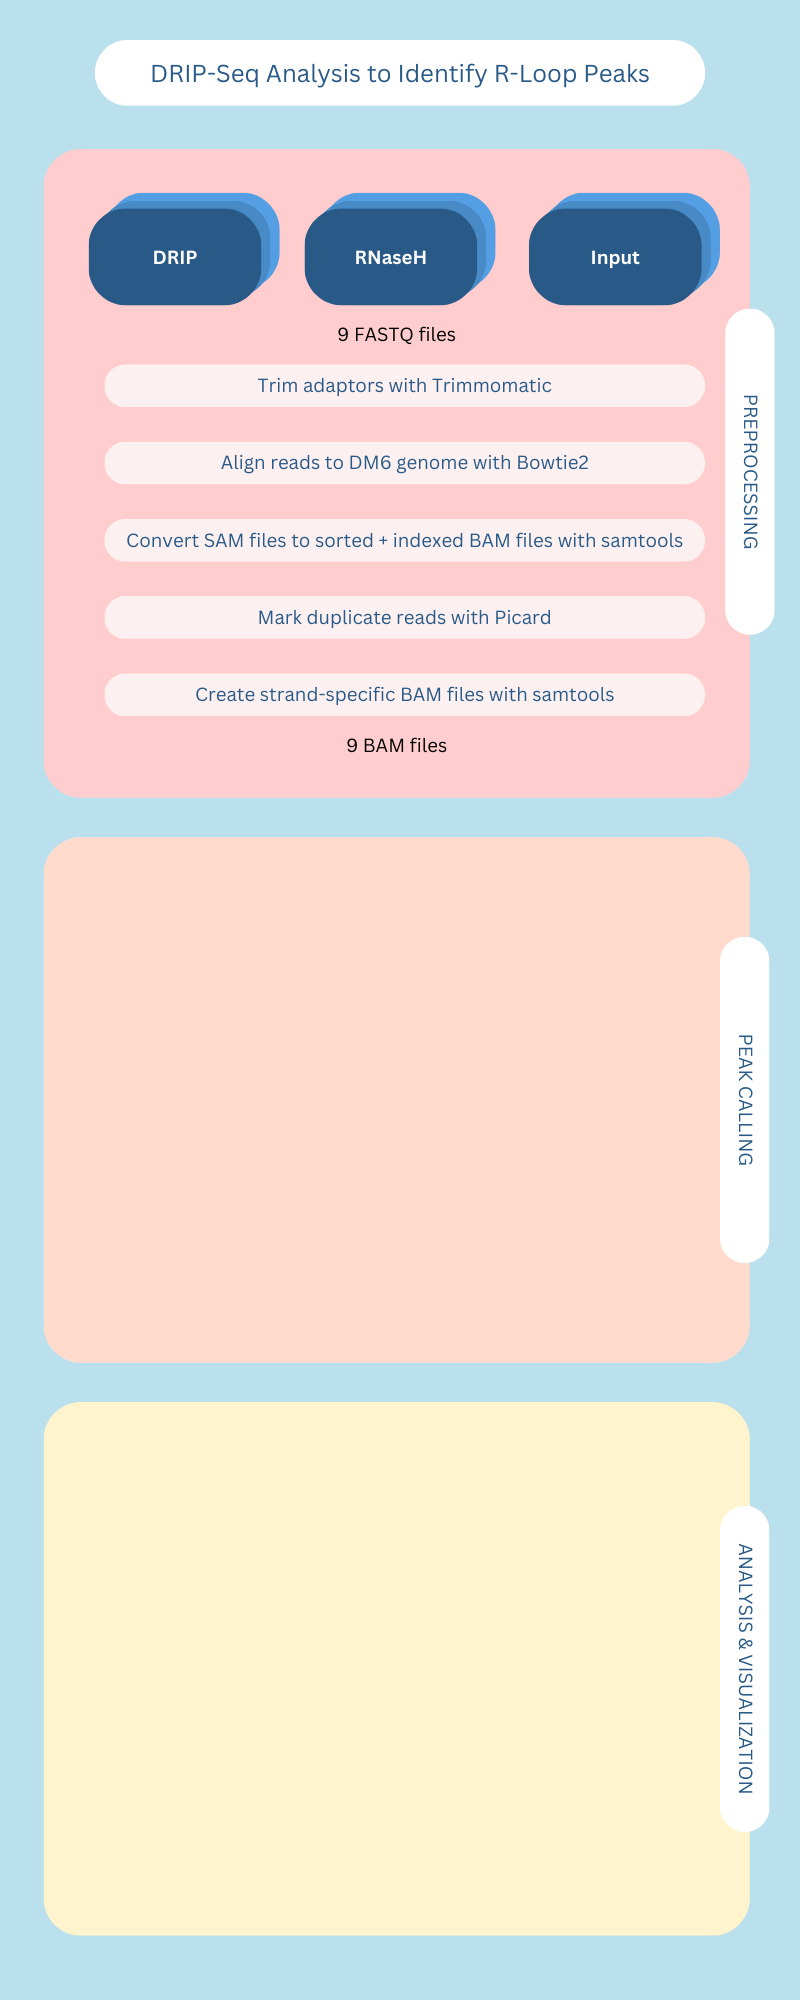
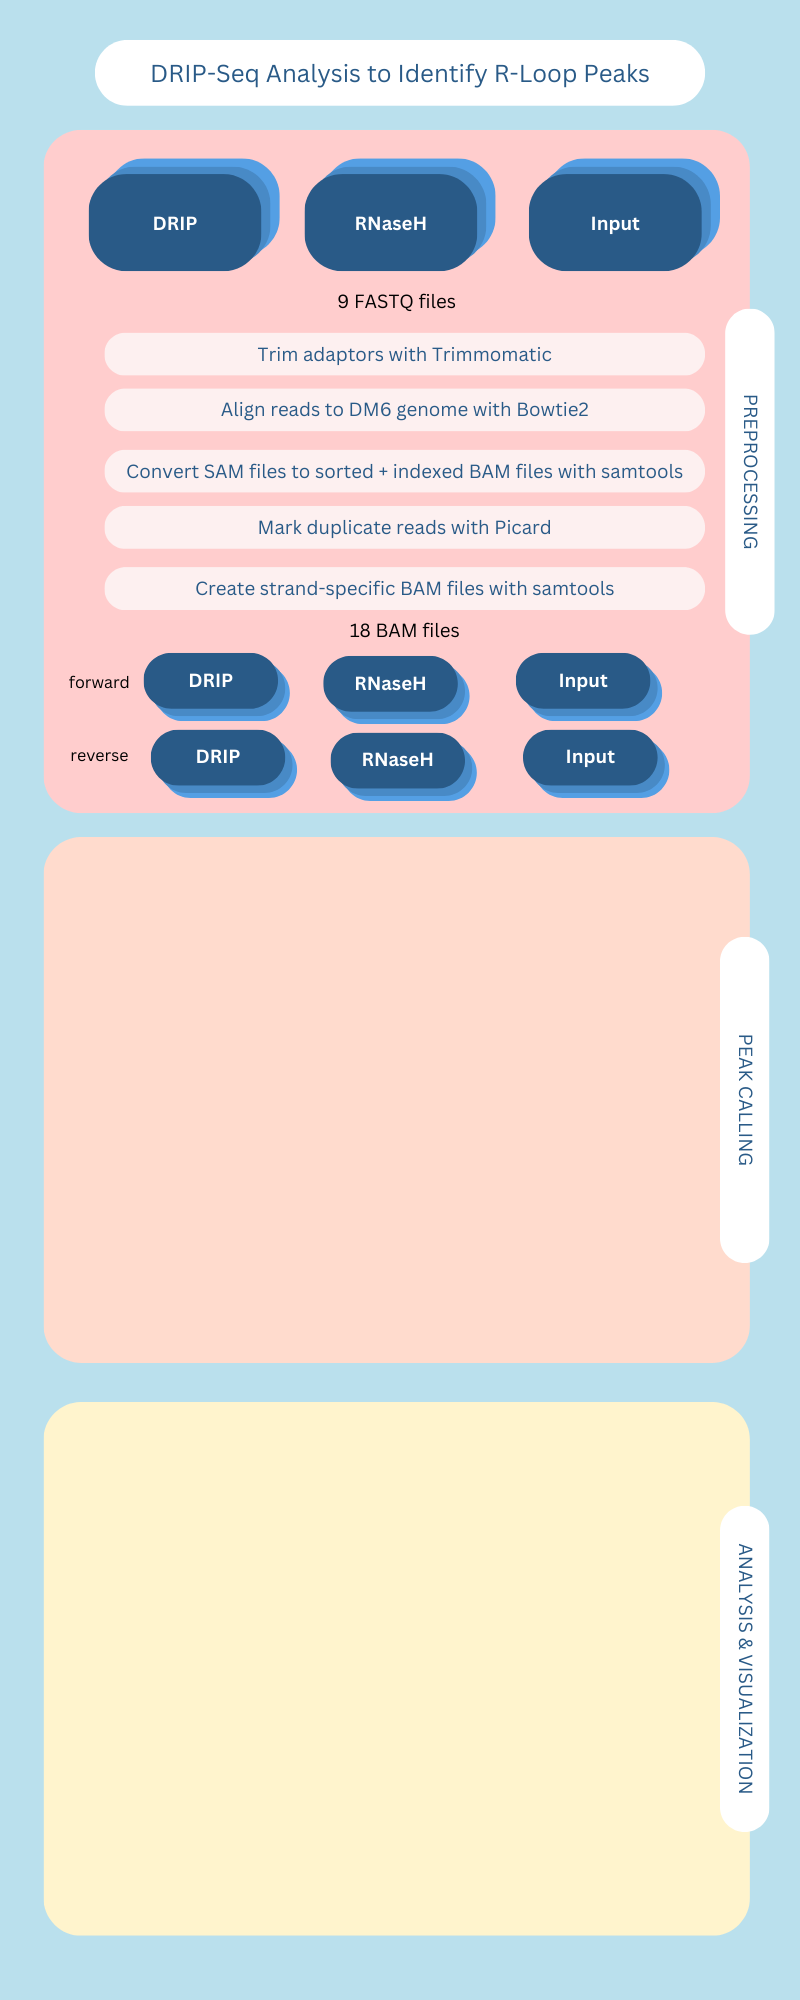
workflow illustration preprocessing done

Changed region(s): [[0.0625, 0.062, 0.9375, 0.434]]

diff --git a/README.md b/README.md
@@ -4,14 +4,10 @@
 ## To-Do:
 
 **Dependency Management and Oscar Compatibility**
-- see if `bedtools-2.30.0` release will run
-    else try compiling bedtools from source
-    else 
-    switch to Docker image instead of Conda env;
-    use brew install bedtools
-- confirm Oscar will use -x64 arch
+- compile `bedtools` and `samtools` from source
+- confirm Oscar will be able to use -x64 rosetta environment
 - finish SLURM batch script for Oscar
-- finish Oscar use instructions
+- finish Oscar README use instructions
 - check if Oscar already has commandline tools
 
 **Next Directions**
@@ -137,6 +133,6 @@ Once activated, it allows access to the packages `bowtie2`, `macs2`, and `deepTo
 
 The JAR files for Trimmomatic and samtools as well as the executables for bedtools and picard should be added to the `tools/` directory (not committed). 
 
-## Workflow illustration
+## Workflow illustration (in progress)
 
 ![alt text](workflow-illustration.png?raw=true)
